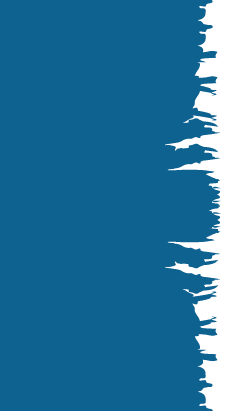
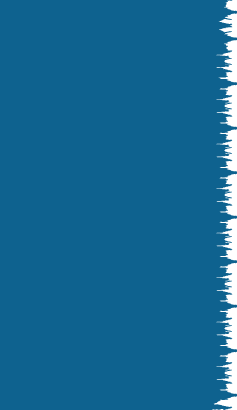
- add mobile image - update tail img

Changed region(s): [[0.7089, 0.0, 1.0, 1.0]]

diff --git a/app/index.html b/app/index.html
@@ -1472,10 +1472,10 @@
     <section class="example section">
       <div class="section__header">
         <div class="section__header__text">
-          <img class="section__header__icon section__header__icon--xl" src="./img/icon/icon_phuong-phap-tinh-dien-tich.svg" />
+          <img class="section__header__icon section__header__icon--xl" src="./img/icon/icon_vi-du-cong-trinh.svg" />
           <span>
             VÍ DỤ CÔNG TRÌNH
-            <div class="section__header__subtitle">Quy mô cồng trình 200m<sup>2</sup> - 400m<sup>2</sup></div>
+            <div class="section__header__subtitle">Quy mô công trình 200m<sup>2</sup> - 400m<sup>2</sup></div>
           </span>
         </div>
       </div>

diff --git a/app/styles/_section.scss b/app/styles/_section.scss
@@ -34,7 +34,7 @@
       }
 
       &--xl {
-        width: 150px;
+        width: 120px;
         top: -25px;
         left: -160px;
       }
@@ -100,7 +100,7 @@
 
   .content {
     justify-content: start;
-    margin-right:30px;
+    margin-right: 30px;
     margin-left: 20px;
 
     &__list {
@@ -357,7 +357,7 @@
 .footer {
   overflow: hidden;
 
-  &__img img {
+  img {
     width: 100%;
     max-height: 600px;
     object-fit: cover;
